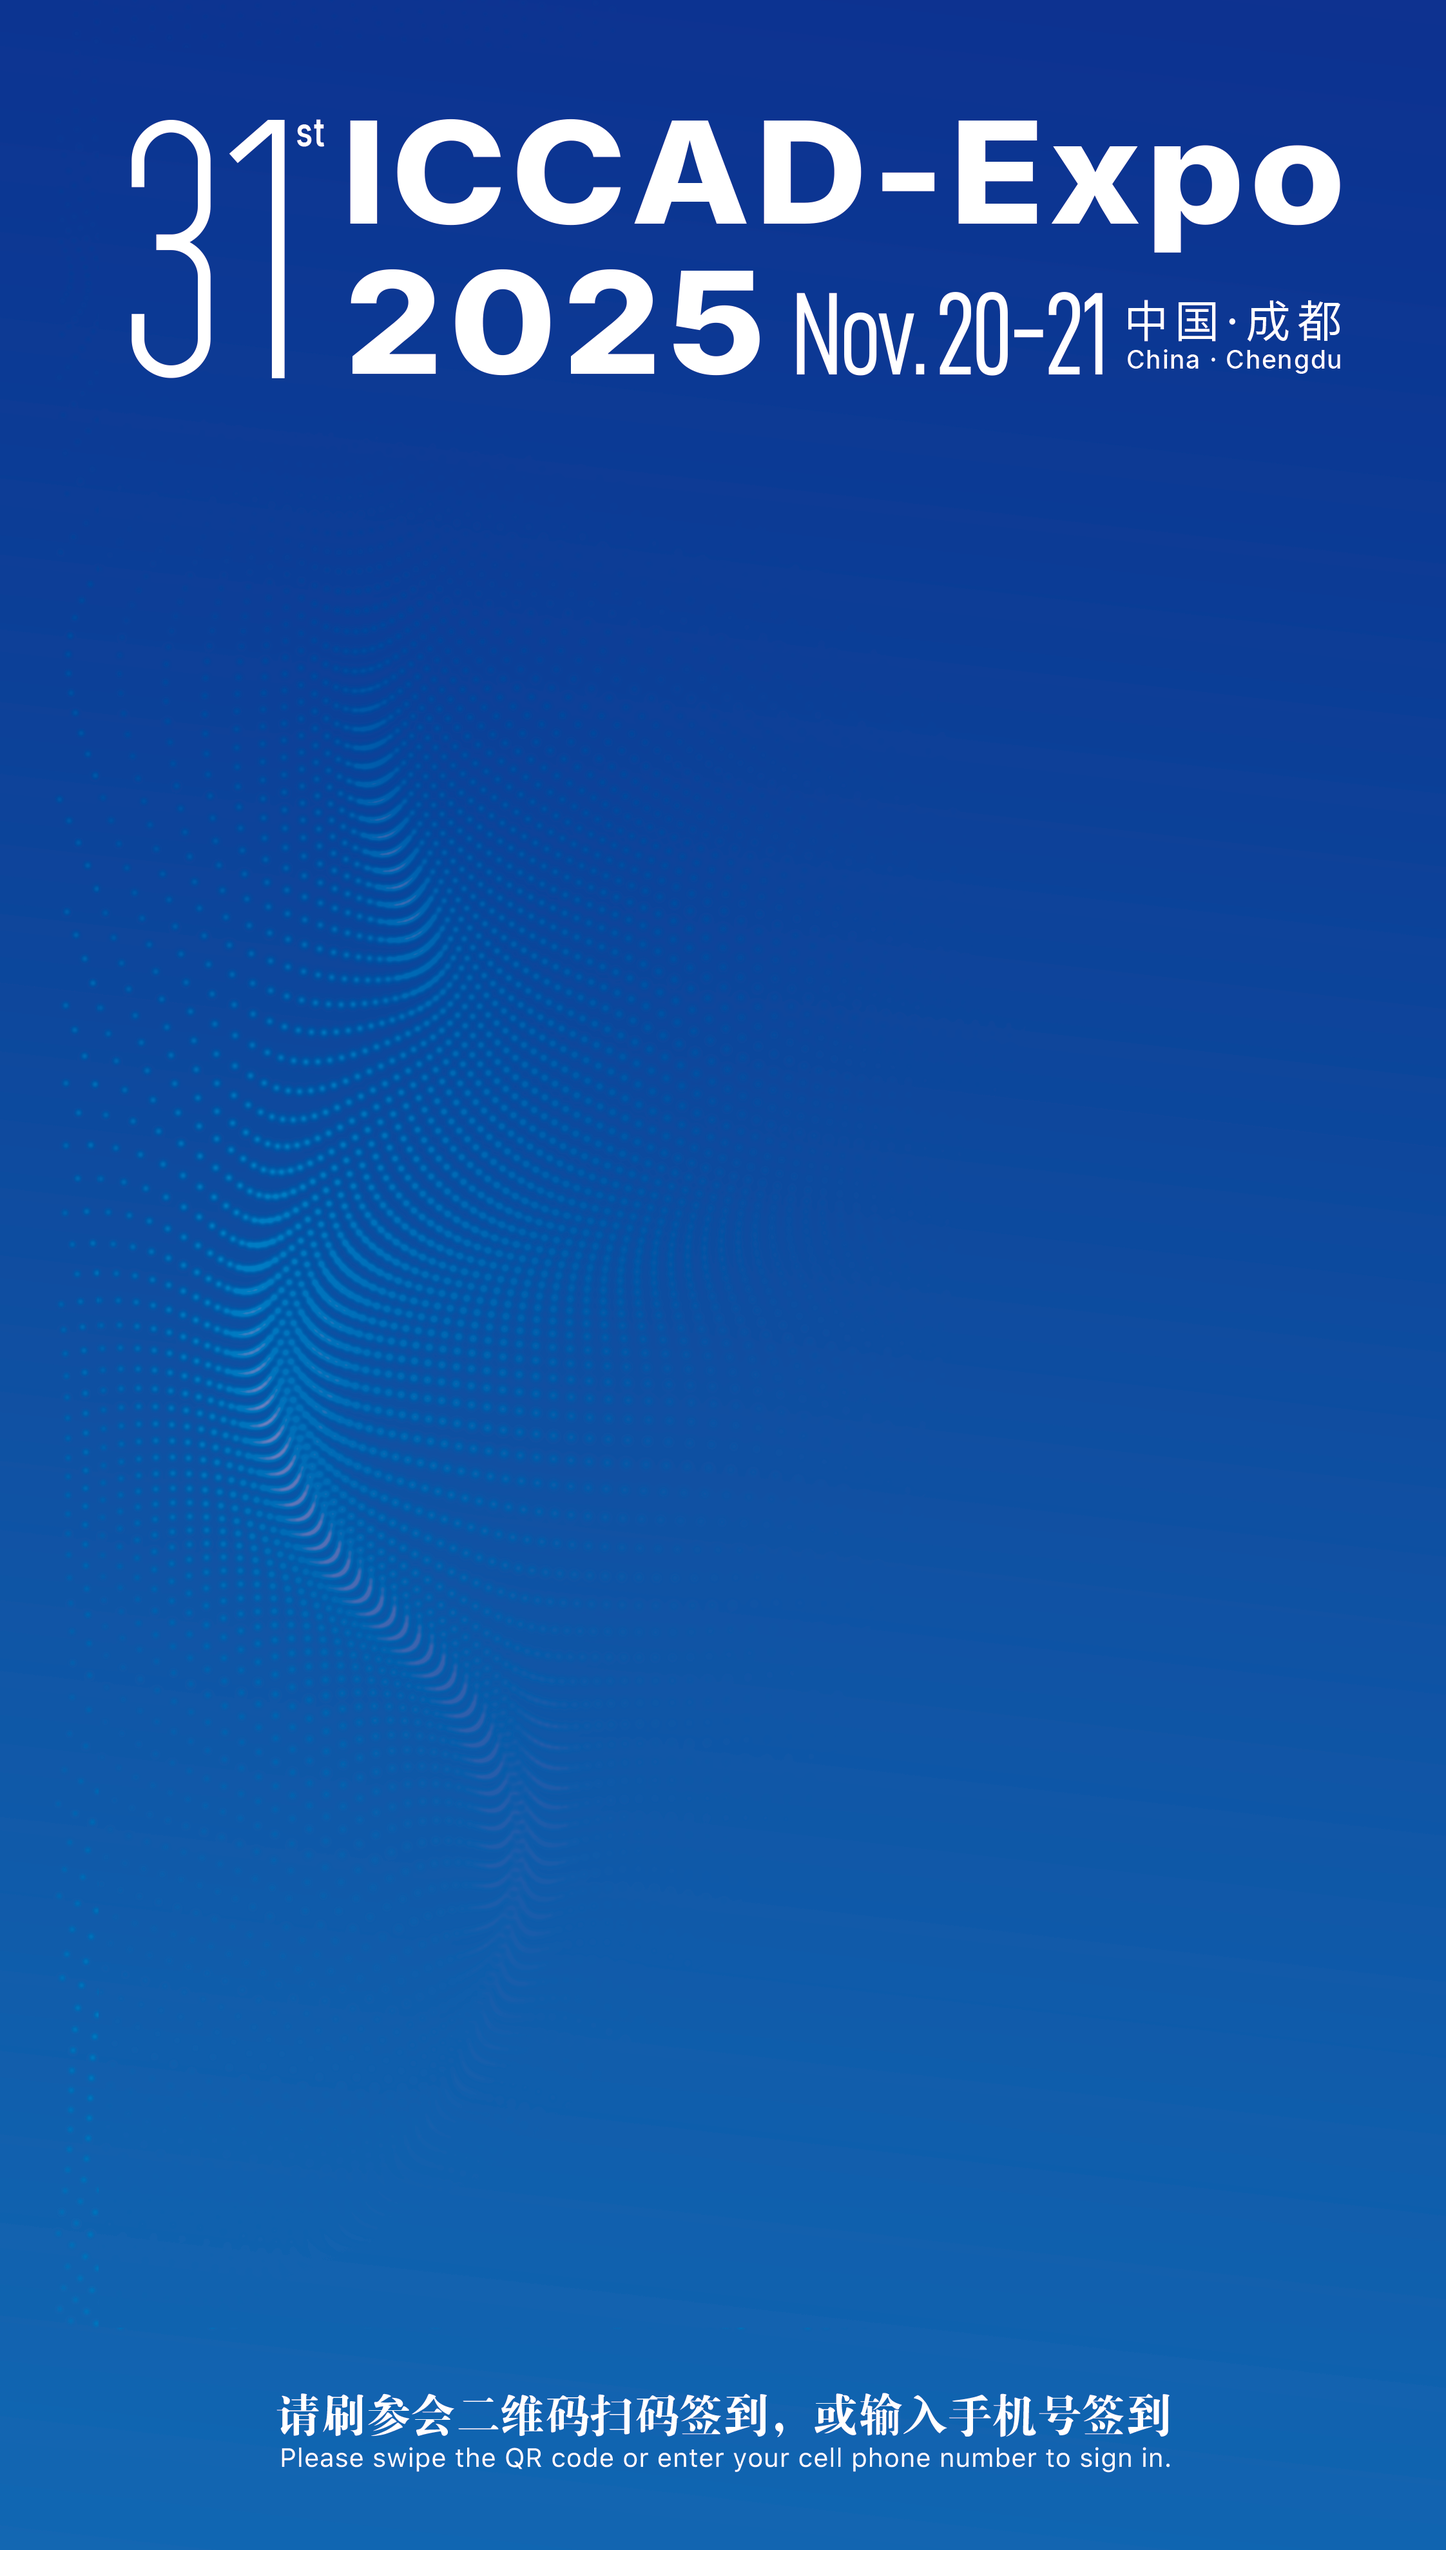
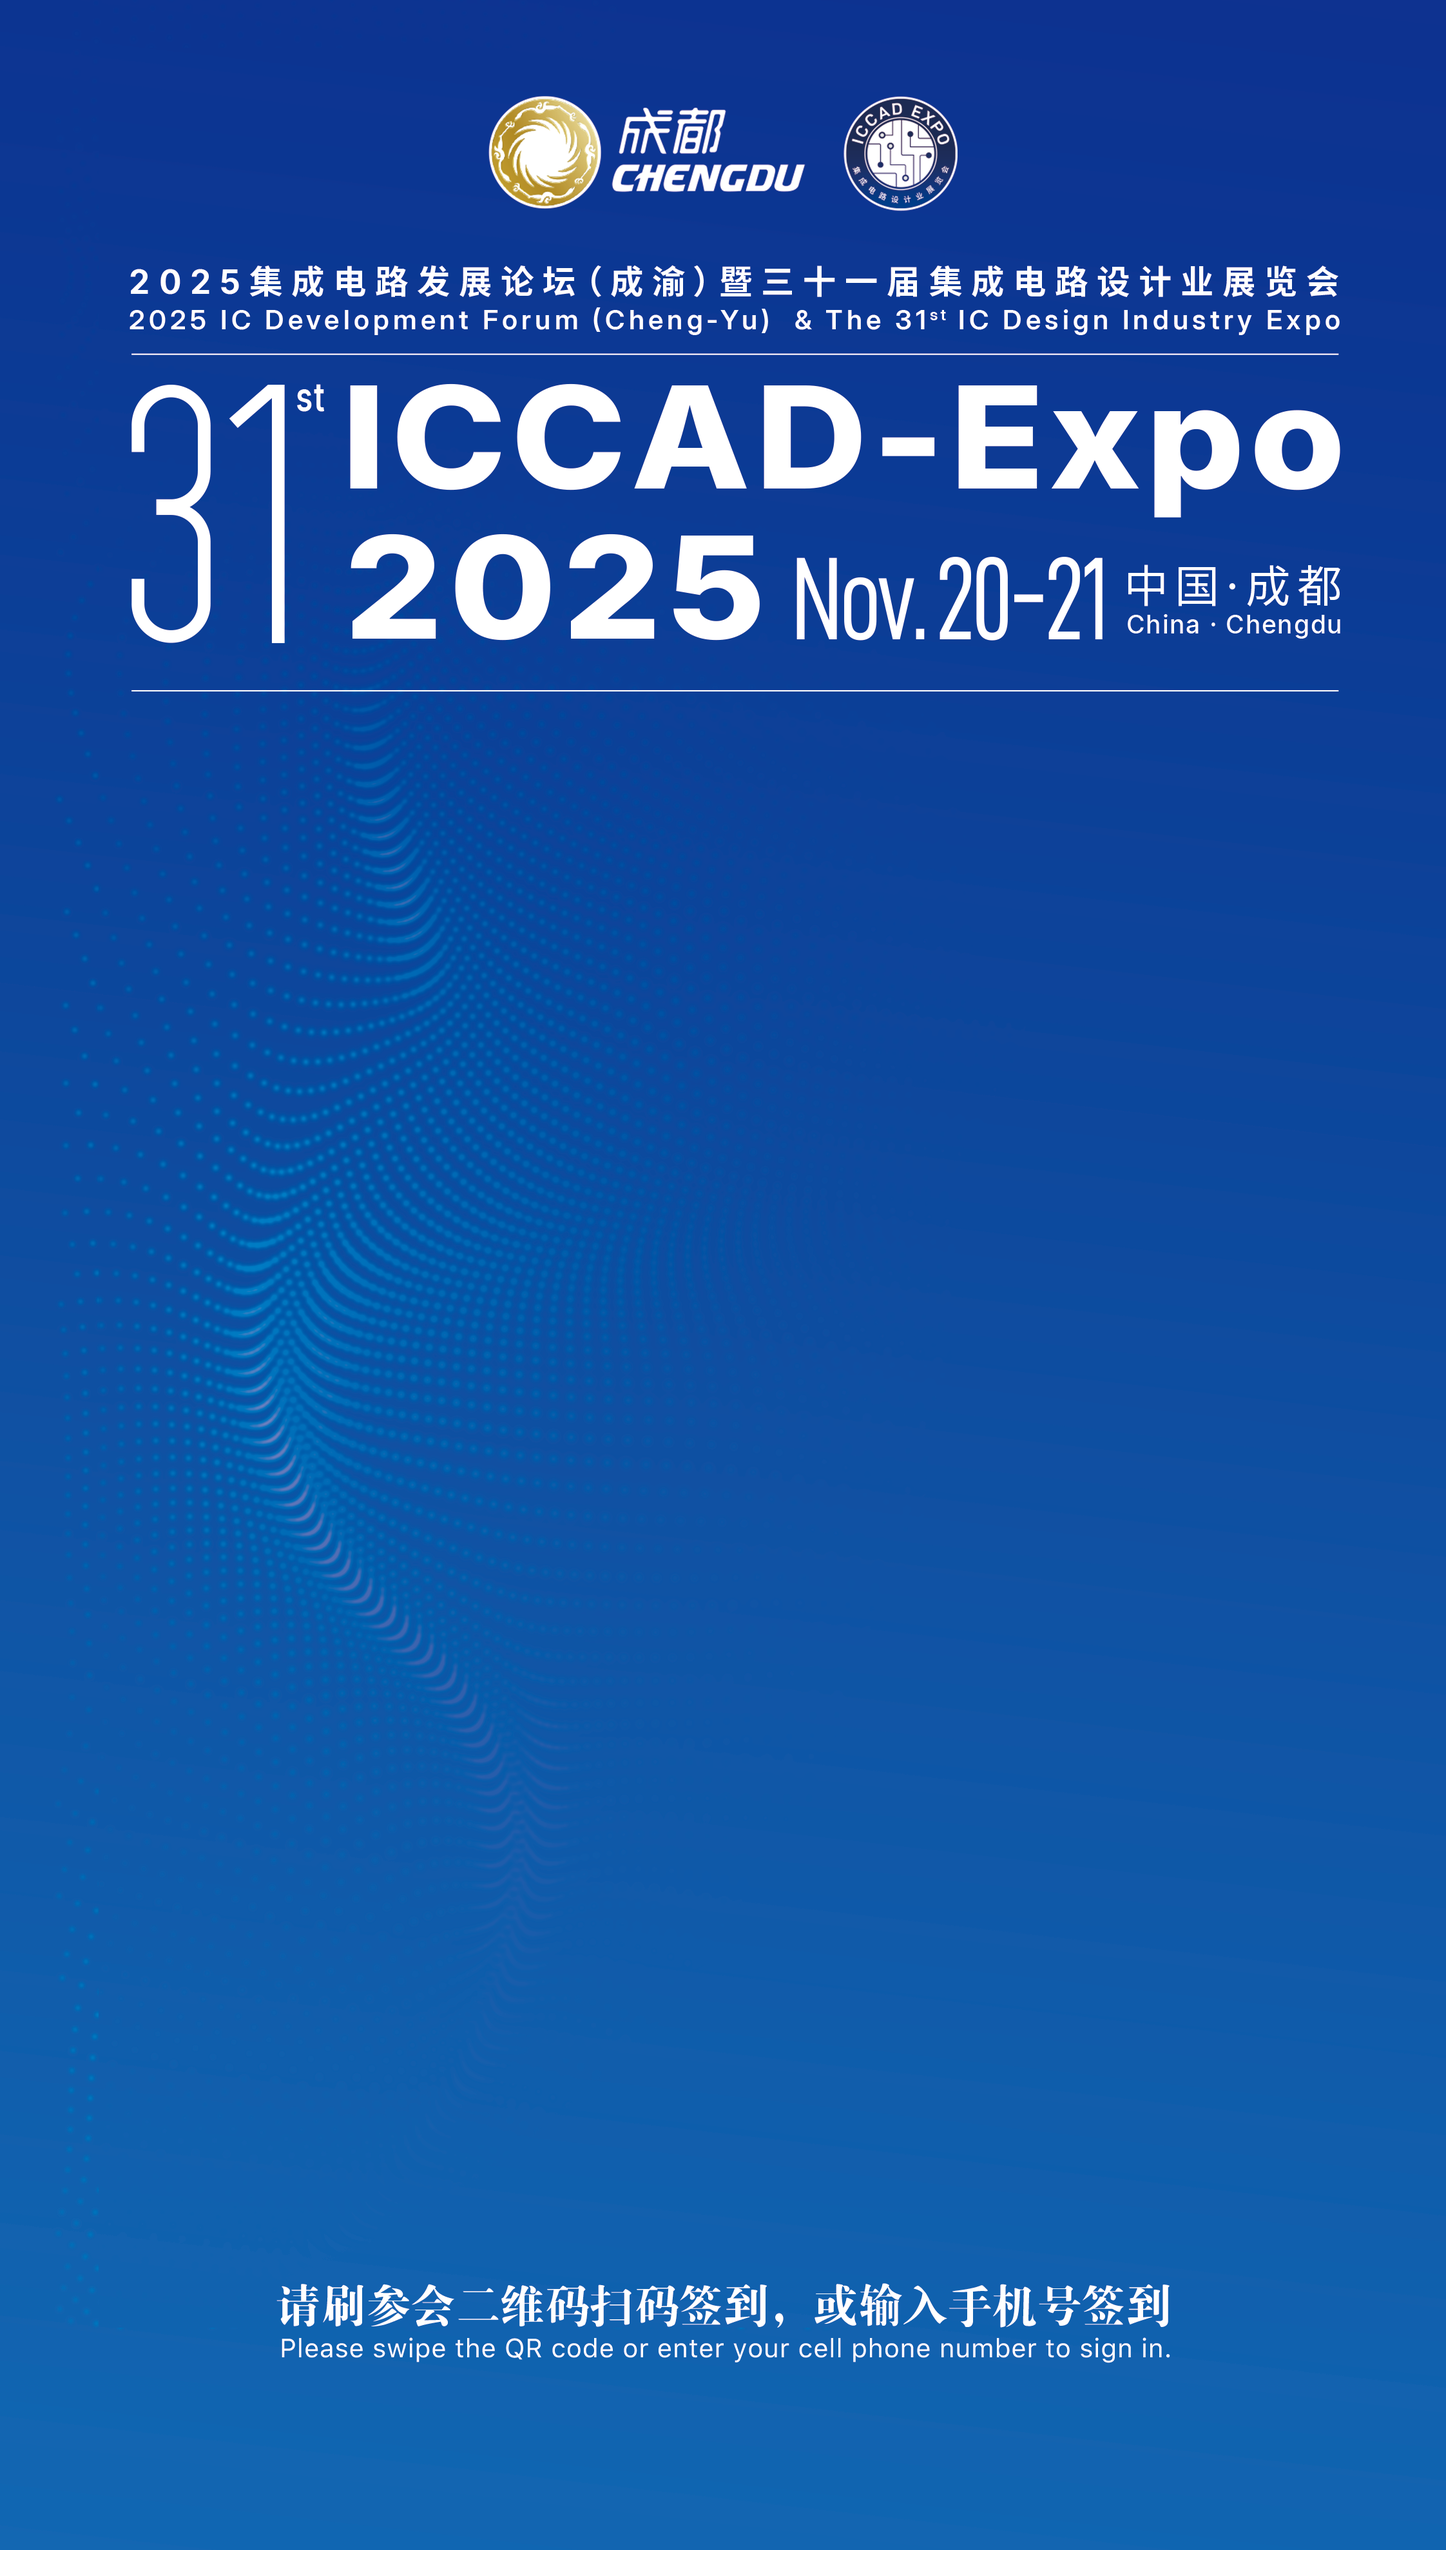
feat: Add user information editing functionality with a dialog for editing user details and improved query form with additional fields.

diff --git a/src/pages/AdminQueryPage.vue b/src/pages/AdminQueryPage.vue
@@ -5,13 +5,6 @@
         <div class="text-h4">
           用户信息查询
         </div>
-        <q-btn
-          color="secondary"
-          icon="settings"
-          label="打印配置"
-          to="/settings"
-          unelevated
-        />
       </div>
 
       <!-- SessionId 显示 -->
@@ -37,6 +30,19 @@
               >
                 <template v-slot:prepend>
                   <q-icon name="person" />
+                </template>
+              </q-input>
+            </div>
+            <div class="col-12 col-md-6">
+              <q-input
+                v-model="queryForm.py"
+                label="姓名拼音"
+                outlined
+                clearable
+                @keyup.enter="handleEnterKey"
+              >
+                <template v-slot:prepend>
+                  <q-icon name="spellcheck" />
                 </template>
               </q-input>
             </div>
@@ -288,6 +294,13 @@
 
         <q-card-actions align="right" class="q-px-md q-py-md">
           <q-btn
+            label="编辑信息"
+            color="secondary"
+            icon="edit"
+            @click="openEditDialog(selectedUser)"
+            flat
+          />
+          <q-btn
             label="取消选择"
             color="grey"
             icon="clear"
@@ -360,6 +373,13 @@
 
           <q-card-actions align="right">
             <q-btn
+              label="编辑"
+              color="secondary"
+              icon="edit"
+              @click="openEditDialog(detailUser)"
+              unelevated
+            />
+            <q-btn
               label="签到"
               color="primary"
               icon="check_circle"
@@ -375,6 +395,52 @@
               unelevated
             />
             <q-btn label="关闭" color="grey" flat v-close-popup />
+          </q-card-actions>
+        </q-card>
+      </q-dialog>
+
+      <!-- 用户信息编辑对话框 -->
+      <q-dialog v-model="showEditDialog" persistent>
+        <q-card style="min-width: 500px; max-width: 700px;">
+          <q-card-section class="row items-center">
+            <div class="text-h6">编辑用户信息</div>
+            <q-space />
+            <q-btn icon="close" flat round dense v-close-popup @click="cancelEdit" />
+          </q-card-section>
+
+          <q-separator />
+
+          <q-card-section>
+            <div class="row q-col-gutter-md">
+              <div
+                v-for="field in editFieldEntries"
+                :key="field.key"
+                class="col-12 col-md-6"
+              >
+                <q-toggle
+                  v-if="field.type === 'boolean'"
+                  v-model="editUserForm[field.key]"
+                  :label="field.label"
+                  color="primary"
+                  keep-color
+                />
+                <q-input
+                  v-else
+                  v-model="editUserForm[field.key]"
+                  :label="field.label"
+                  outlined
+                  :disable="readOnlyEditFields.includes(field.key)"
+                  :readonly="readOnlyEditFields.includes(field.key)"
+                />
+              </div>
+            </div>
+          </q-card-section>
+
+          <q-separator />
+
+          <q-card-actions align="right">
+            <q-btn label="取消" color="grey" flat @click="cancelEdit" />
+            <q-btn label="保存" color="primary" icon="save" @click="saveUserEdits" unelevated />
           </q-card-actions>
         </q-card>
       </q-dialog>
@@ -398,6 +464,7 @@ export default defineComponent({
     
     const queryForm = ref({
       name: '',
+      py: '',
       phone: '',
       email: '',
       ticketNumber: ''
@@ -410,6 +477,11 @@ export default defineComponent({
     // 用户详情对话框
     const showDetailDialog = ref(false)
     const detailUser = ref(null)
+
+    // 用户编辑对话框
+    const showEditDialog = ref(false)
+    const createEmptyEditForm = () => ({})
+    const editUserForm = ref(createEmptyEditForm())
 
     // 门票编号输入框引用
     const ticketNumberInput = ref(null)
@@ -484,6 +556,7 @@ export default defineComponent({
     const hasQueryCondition = computed(() => {
       return !!(
         queryForm.value.name ||
+        queryForm.value.py ||
         queryForm.value.phone ||
         queryForm.value.email ||
         queryForm.value.ticketNumber
@@ -513,10 +586,167 @@ export default defineComponent({
       return filtered
     })
 
+    const isSameUser = (user, target) => {
+      if (!user || !target) return false
+      if (user.id && target.id && user.id === target.id) return true
+      if (user.regcode && target.regcode && user.regcode === target.regcode) return true
+      if (user.ticketNumber && target.ticketNumber && user.ticketNumber === target.ticketNumber) return true
+      return false
+    }
+
+    const editFieldEntries = computed(() => {
+      const form = editUserForm.value || {}
+      const nonEditableKeys = [
+        'id',
+        '__ob__',
+        'avatar',
+        'province',
+        'city',
+        'customer_type',
+        'industry',
+        'regcode',
+        'ticketNumber',
+        'payState',
+        'country',
+        'signed',
+        'complaintState',
+        'signinTime',
+        'ticket',
+        'department',
+      ]
+      return Object.keys(form)
+        .filter(key => !nonEditableKeys.includes(key))
+        .map(key => ({
+          key,
+          label: formatFieldName(key),
+          type: typeof form[key] === 'boolean' ? 'boolean' : 'text'
+        }))
+    })
+    const readOnlyEditFields = ['email', 'mobile', 'phone']
+
+    const resetEditForm = () => {
+      editUserForm.value = createEmptyEditForm()
+    }
+
+    const openEditDialog = (user) => {
+      if (!user) return
+      const clone = JSON.parse(JSON.stringify(user))
+      if (clone.mobile == null && clone.phone) {
+        clone.mobile = clone.phone
+      }
+      if (clone.phone == null && clone.mobile) {
+        clone.phone = clone.mobile
+      }
+      if (clone.regcode == null && clone.ticketNumber) {
+        clone.regcode = clone.ticketNumber
+      }
+      if (clone.ticketNumber == null && clone.regcode) {
+        clone.ticketNumber = clone.regcode
+      }
+      editUserForm.value = clone
+      showEditDialog.value = true
+    }
+
+    const cancelEdit = () => {
+      showEditDialog.value = false
+      resetEditForm()
+    }
+
+    const saveUserEdits = async () => {
+      const payload = { ...editUserForm.value }
+      const fieldValues = { ...(payload.fieldValues || {}) }
+
+      Object.keys(payload).forEach(key => {
+        if (key.startsWith('cf_')) {
+          fieldValues[key] = payload[key]
+          delete payload[key]
+        }
+      })
+
+      payload.fieldValues = fieldValues
+
+      if (payload.mobile && !payload.phone) {
+        payload.phone = payload.mobile
+      }
+
+      if (payload.phone && !payload.mobile) {
+        payload.mobile = payload.phone
+      }
+
+      if (!payload.id && !payload.regcode && !payload.ticketNumber) {
+        showEditDialog.value = false
+        resetEditForm()
+        return
+      }
+
+      $q.loading.show({
+        message: '正在保存用户信息...'
+      })
+
+      try {
+        const response = await api.post('/api/v2/editMember', payload)
+        if (response.data?.success === false) {
+          $q.notify({
+            type: 'negative',
+            message: response.data?.message || '保存失败，请稍后重试'
+          })
+          return
+        }
+
+        const responseData = response.data?.data || {}
+        const updatedUser = { ...payload, ...responseData }
+
+        const mergedFieldValues = {
+          ...(payload.fieldValues || {}),
+          ...(responseData.fieldValues || {})
+        }
+
+        if (Object.keys(mergedFieldValues).length) {
+          updatedUser.fieldValues = mergedFieldValues
+          Object.keys(mergedFieldValues).forEach(key => {
+            updatedUser[key] = mergedFieldValues[key]
+          })
+        }
+
+        searchResults.value = searchResults.value.map(user => {
+          if (isSameUser(user, updatedUser)) {
+            return { ...user, ...updatedUser }
+          }
+          return user
+        })
+
+        if (selectedUser.value && isSameUser(selectedUser.value, updatedUser)) {
+          selectedUser.value = { ...selectedUser.value, ...updatedUser }
+        }
+
+        if (detailUser.value && isSameUser(detailUser.value, updatedUser)) {
+          detailUser.value = { ...detailUser.value, ...updatedUser }
+        }
+
+        $q.notify({
+          type: 'positive',
+          message: response.data?.message || '用户信息已更新'
+        })
+
+        showEditDialog.value = false
+        resetEditForm()
+      } catch (error) {
+        console.error('保存用户信息失败:', error)
+        const errorMsg = error.response?.data?.message || error.message || '保存失败，请稍后重试'
+        $q.notify({
+          type: 'negative',
+          message: errorMsg
+        })
+      } finally {
+        $q.loading.hide()
+      }
+    }
+
     // 重置表单
     const resetForm = () => {
       queryForm.value = {
         name: '',
+        py: '',
         phone: '',
         email: '',
         ticketNumber: ''
@@ -539,6 +769,7 @@ export default defineComponent({
         
         // 清空其他查询条件，只使用门票编号查询
         queryForm.value.name = ''
+        queryForm.value.py = ''
         queryForm.value.phone = ''
         queryForm.value.email = ''
         
@@ -597,6 +828,7 @@ export default defineComponent({
             page: apiPage,  // 传递从0开始的页码
             pageSize: pagination.value.pageSize,
             name: queryForm.value.name || '',
+            py: queryForm.value.py || '',
             regcode: queryForm.value.ticketNumber || '',
             email: queryForm.value.email || '',
             mobile: queryForm.value.phone || ''
@@ -910,7 +1142,11 @@ export default defineComponent({
       fieldList,
       showDetailDialog,
       detailUser,
+      showEditDialog,
+      editUserForm,
+      editFieldEntries,
       filteredDetailUser,
+      readOnlyEditFields,
       ticketNumberInput,
       hasQueryCondition,
       resetForm,
@@ -926,6 +1162,9 @@ export default defineComponent({
       formatDateTime,
       formatFieldName,
       showUserDetail,
+      openEditDialog,
+      saveUserEdits,
+      cancelEdit,
       handleSigninFromDetail,
       handlePrintFromDetail,
       getEventFields,
